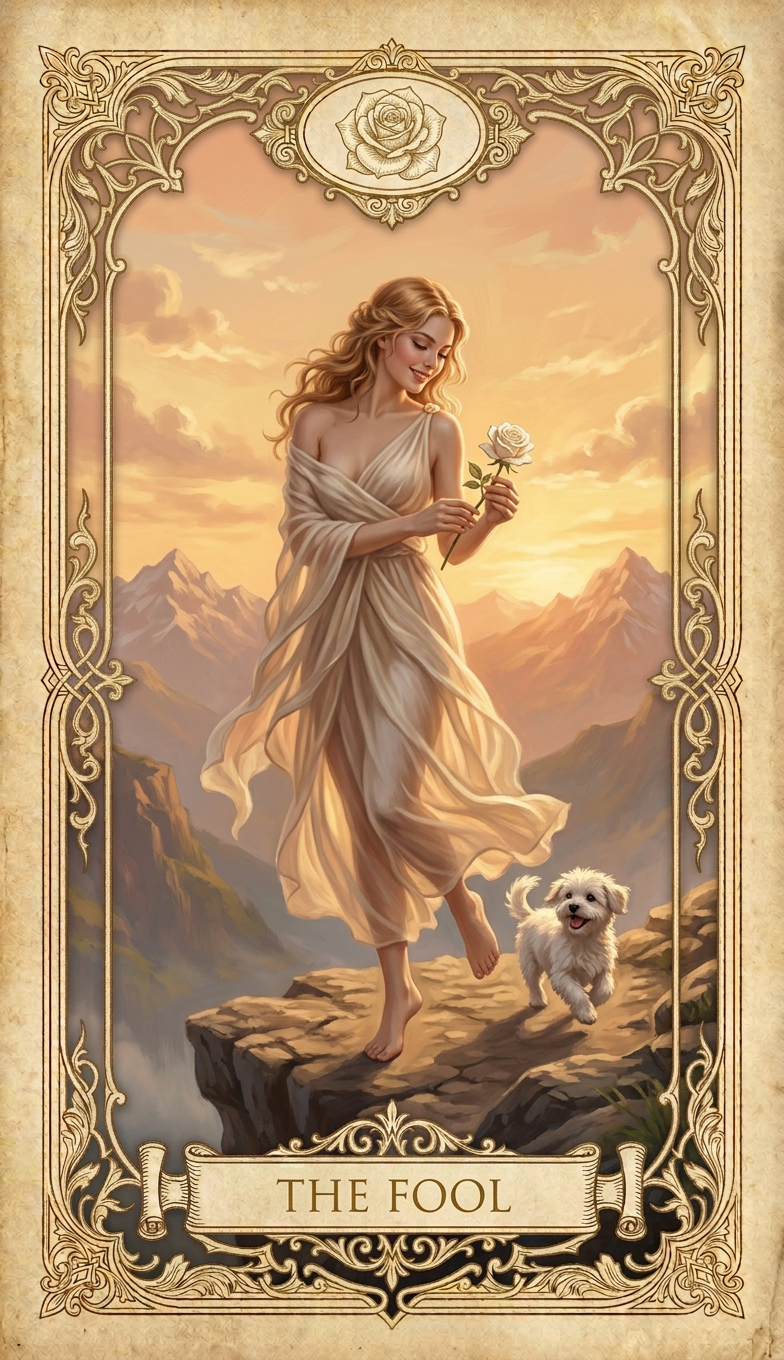
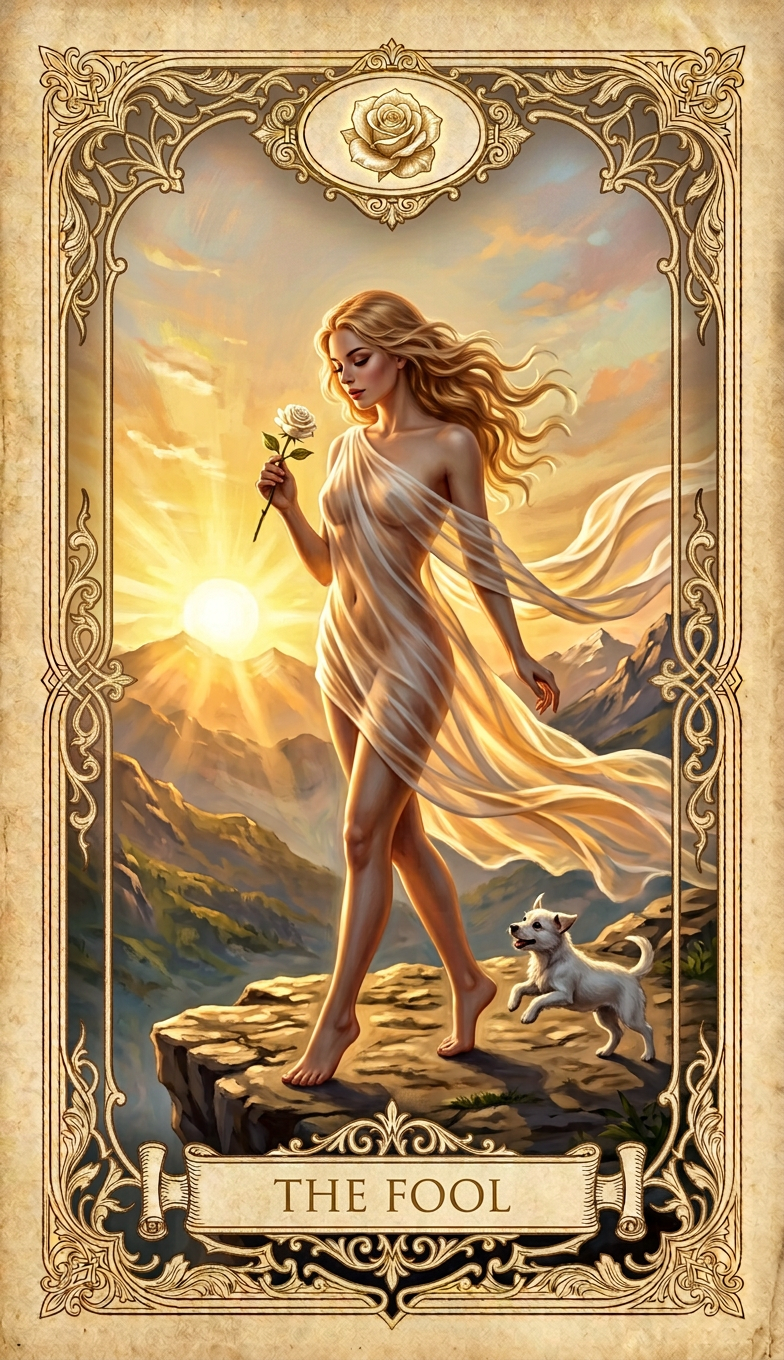
The Fool: more sensual, transparent silk veil
Regenerated The Fool with heightened sensuality: clothing minimized to a
diaphanous transparent silk veil slipping off one shoulder. Frame-verified
vs The Star (RMSE 0.036). Metadata (cards.json + prompt + deck.json) updated.

diff --git a/cards/index.html b/cards/index.html
@@ -78,7 +78,7 @@
             <div class="card-details">
                 <div class="card-title">THE FOOL</div>
                 <div class="card-meta"><strong>Độ tuổi:</strong> 19 years old &bull; <strong>Huy hiệu:</strong> a white rose</div>
-                <div class="card-scene">a nude young woman wanderer, a long silk scarf slipping off one shoulder and streaming behind her, a white rose lifted in one hand and her eyes lowered to look at the white rose, her bare back and hip caught in the morning light, stepping lightly toward a cliff edge, a small white dog leaping at her heel, distant mountains under a golden morning sun</div>
+                <div class="card-scene">a carefree 19-year-old woman wanderer draped only in a transparent silk veil so fine it clings and reveals her bare body beneath, the veil slipping from one shoulder and streaming behind her, a white rose lifted in one hand and her eyes lowered to look at it, stepping lightly toward a cliff edge, a small white dog leaping at her heel, distant mountains under a golden morning sun</div>
             </div>
         </div>
         <div class="card-item">
